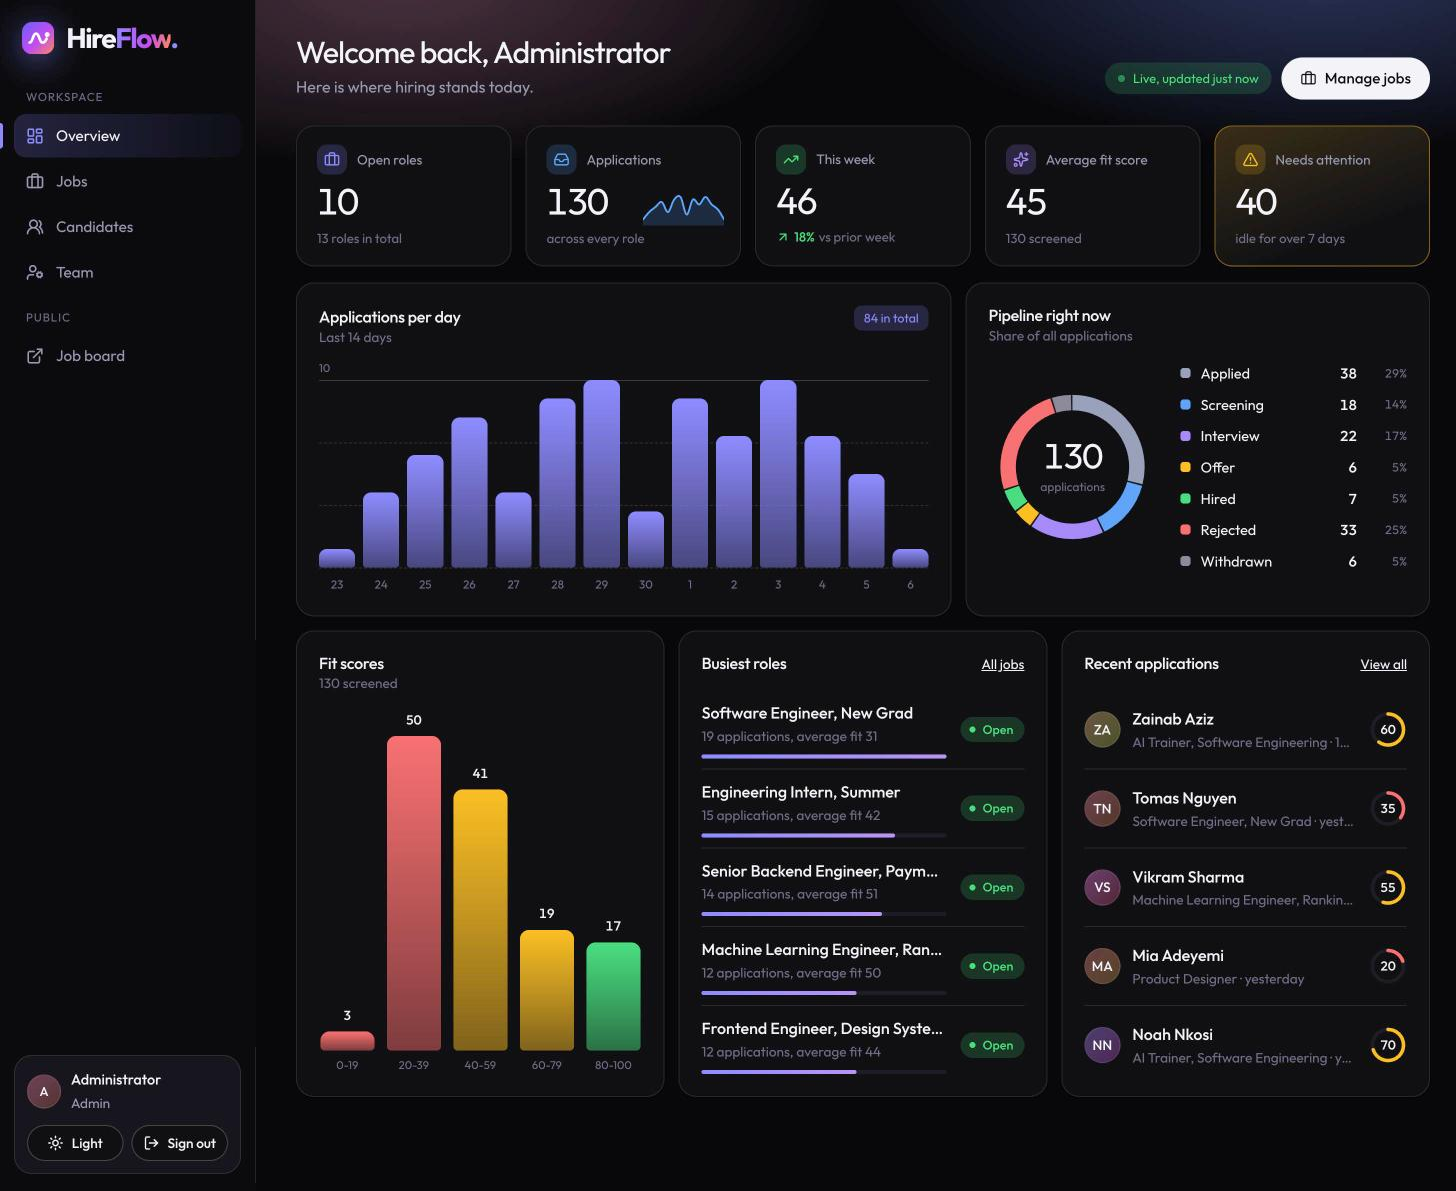
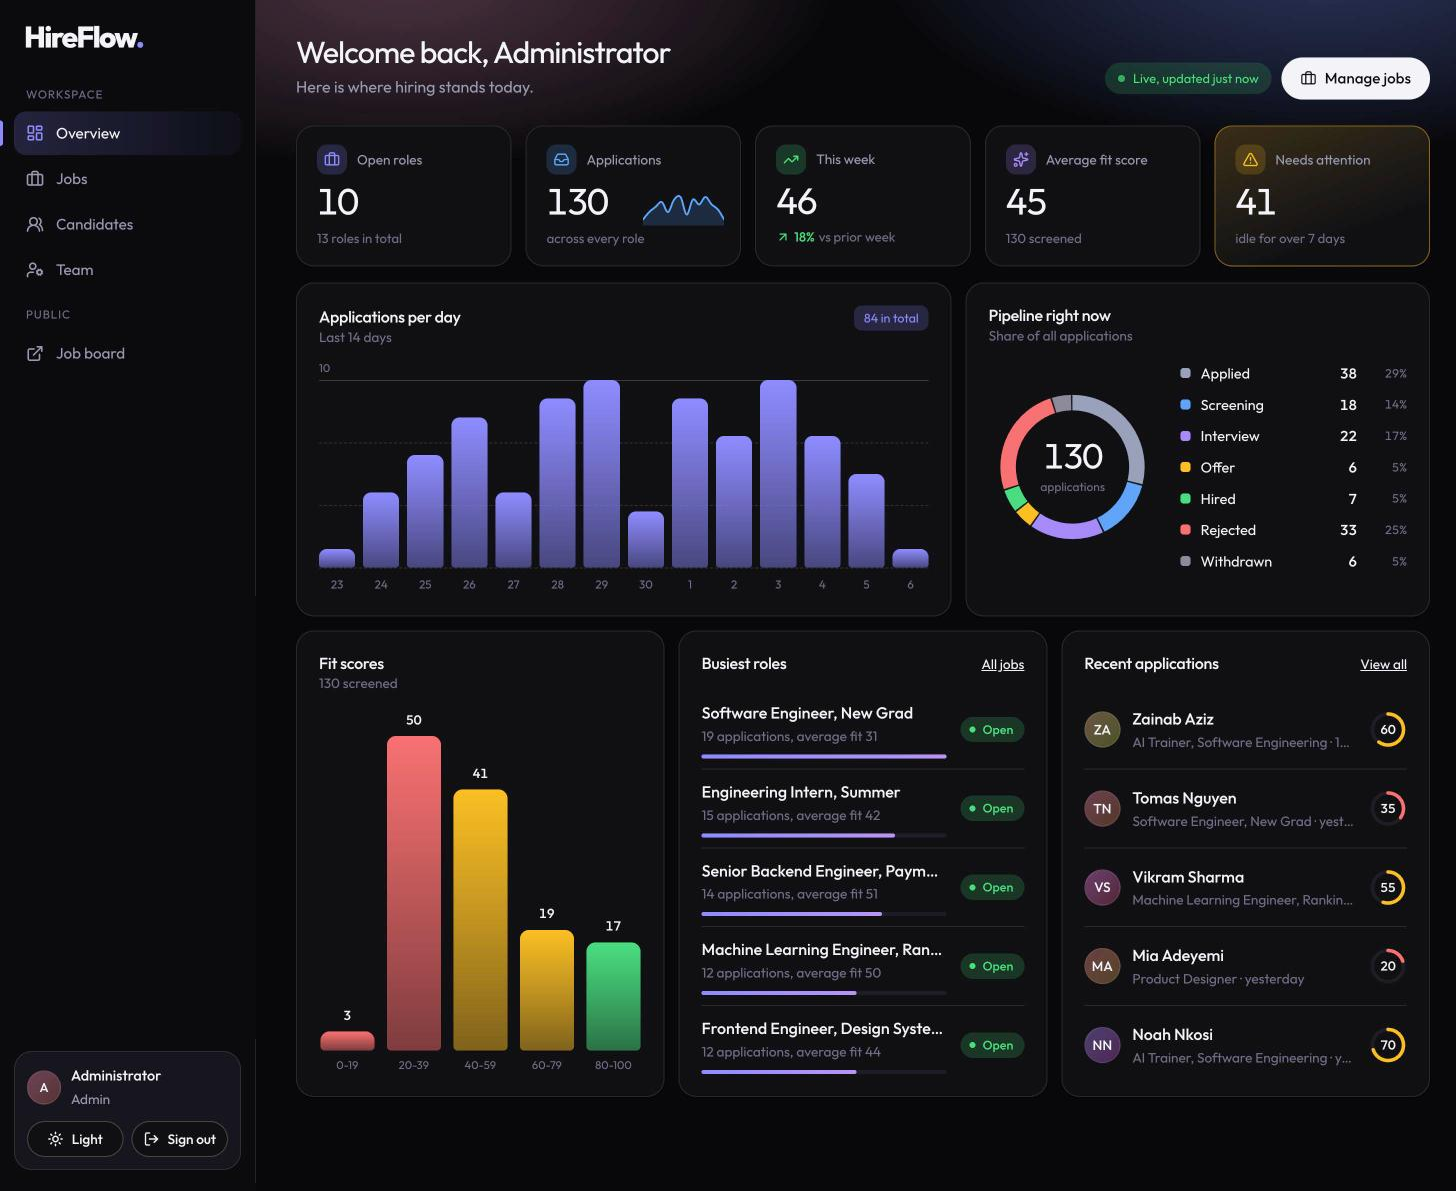
Make the wordmark plain, heavy and black
Back to the simple HireFlow name with a brand-coloured full stop, only bolder and larger, in the text colour so it is
black on light and white on dark. The favicon is a black tile with a white H. The README pictures show it.

diff --git a/web/src/layouts/PublicLayout.tsx b/web/src/layouts/PublicLayout.tsx
@@ -4,26 +4,11 @@ import { Link, NavLink, Outlet, useLocation, useNavigate } from 'react-router-do
 import { useAuth } from '../auth';
 import { ThemeToggle } from '../theme';
 
-/** A rounded mark with a flowing line, then the name in two tones: Hire in ink, Flow in the brand gradient. */
+/** The wordmark: plain, heavy and in the text colour (black on light, white on dark), with a brand-coloured full stop. */
 export function Brand() {
   return (
     <Link to="/" className="brand" aria-label="HireFlow home">
-      <svg className="brand-mark" viewBox="0 0 32 32" aria-hidden="true">
-        <defs>
-          <linearGradient id="brand-fill" x1="0" y1="0" x2="1" y2="1">
-            <stop offset="0" stopColor="#6d5dfc" />
-            <stop offset="0.55" stopColor="#c04df0" />
-            <stop offset="1" stopColor="#ff8a5c" />
-          </linearGradient>
-        </defs>
-        <rect width="32" height="32" rx="10" fill="url(#brand-fill)" />
-        <path d="M7.5 20.5c3.2 0 3.2-9 6.5-9s3.2 9 6.5 9c1.7 0 3-1.6 4-4" fill="none" stroke="#fff" strokeWidth="2.6" strokeLinecap="round" />
-        <circle cx="25" cy="12.5" r="2.4" fill="#fff" />
-      </svg>
-      <span className="brand-name">
-        Hire<b>Flow</b>
-        <i>.</i>
-      </span>
+      HireFlow<i>.</i>
     </Link>
   );
 }

diff --git a/web/src/styles/public.css b/web/src/styles/public.css
@@ -28,37 +28,21 @@
   padding: 22px 28px;
 }
 .brand {
-  display: inline-flex;
-  align-items: center;
-  gap: 12px;
-  font-size: 2rem;
-  font-weight: 700;
-  letter-spacing: -0.05em;
+  font-size: 2.1rem;
+  font-weight: 800;
+  letter-spacing: -0.055em;
   line-height: 1;
+  color: var(--text);
   text-decoration: none;
-}
-@media (max-width: 640px) {
-  .brand {
-    font-size: 1.6rem;
-    gap: 9px;
-  }
-}
-.brand-mark {
-  flex: none;
-  width: 1.15em;
-  height: 1.15em;
-  filter: drop-shadow(0 6px 14px color-mix(in srgb, var(--accent) 38%, transparent));
-}
-.brand-name b {
-  font-weight: 700;
-  background: linear-gradient(100deg, var(--accent), #c04df0 60%, #ff8a5c);
-  -webkit-background-clip: text;
-  background-clip: text;
-  color: transparent;
 }
 .brand i {
   font-style: normal;
   color: var(--accent);
+}
+@media (max-width: 640px) {
+  .brand {
+    font-size: 1.7rem;
+  }
 }
 .pub-nav {
   display: flex;

diff --git a/web/src/styles/console.css b/web/src/styles/console.css
@@ -16,8 +16,8 @@
   border-right: 1px solid var(--border);
 }
 .sidebar .brand {
-  padding: 0 8px;
-  font-size: 1.75rem;
+  padding: 0 10px;
+  font-size: 1.85rem;
 }
 .side-nav {
   display: grid;
